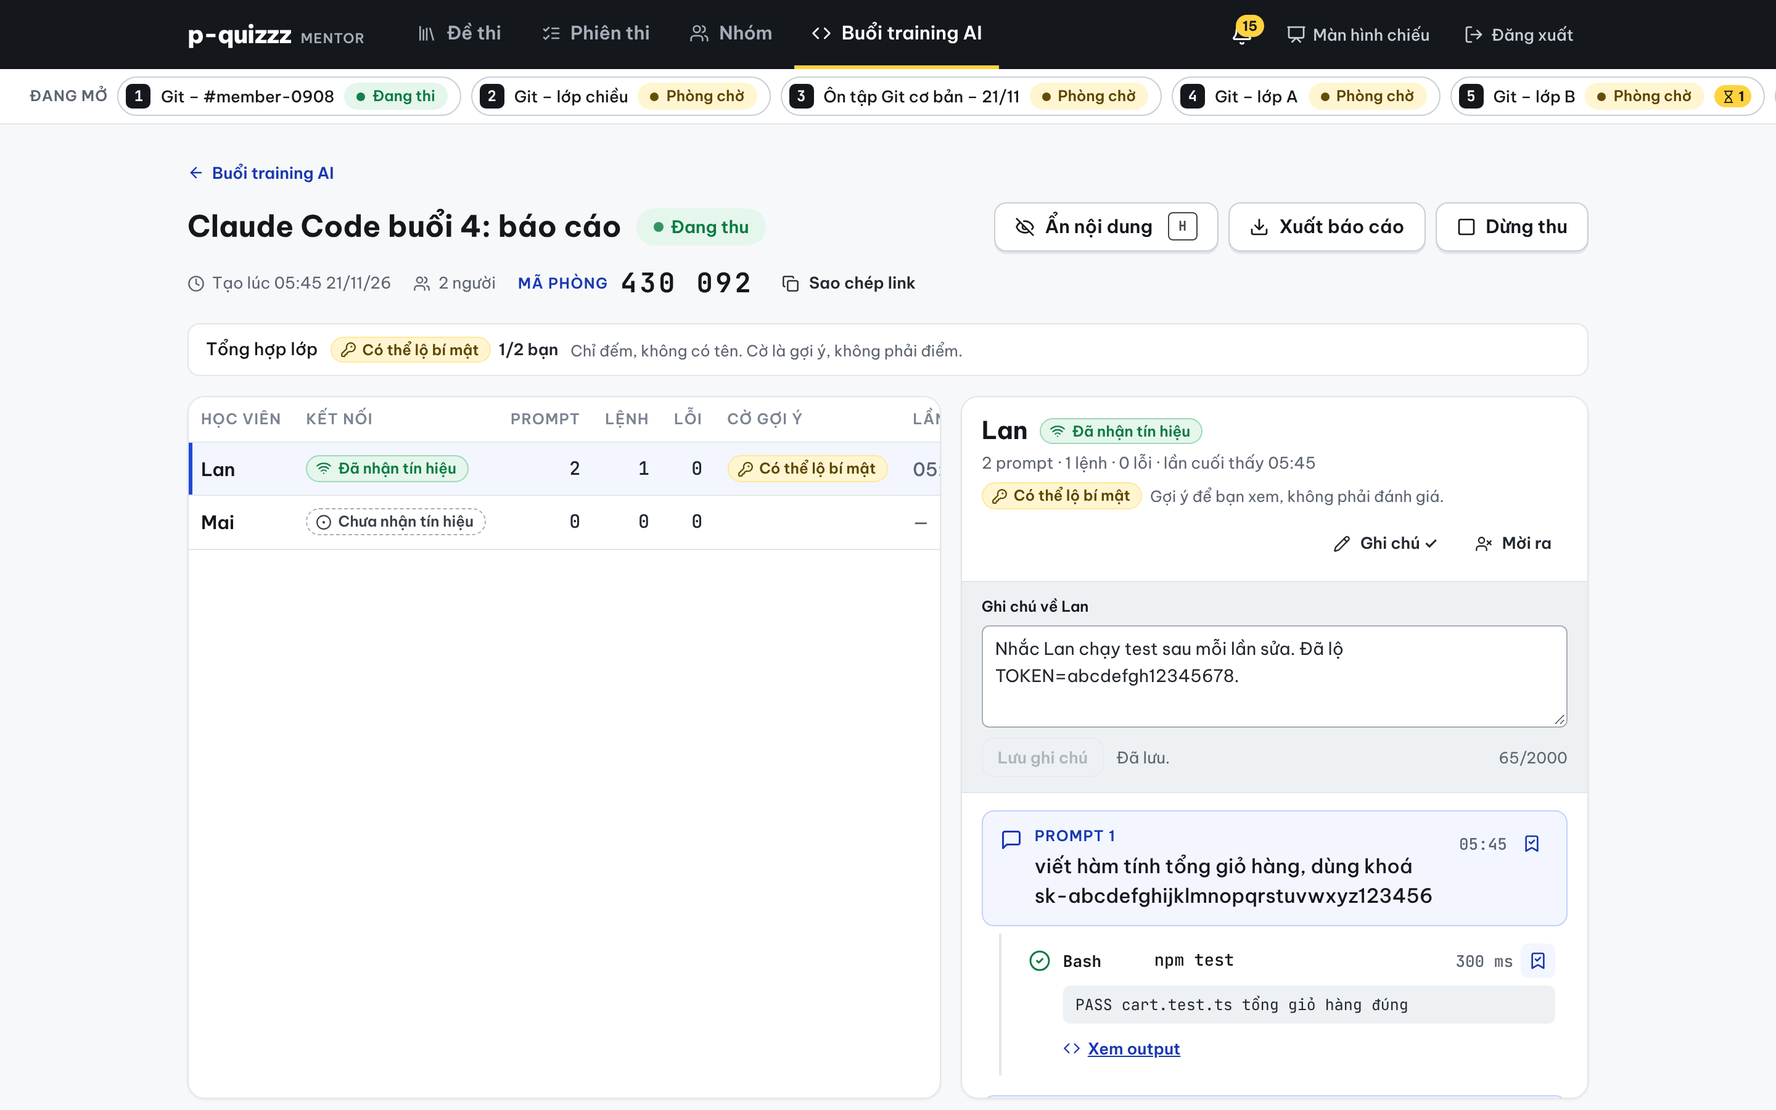
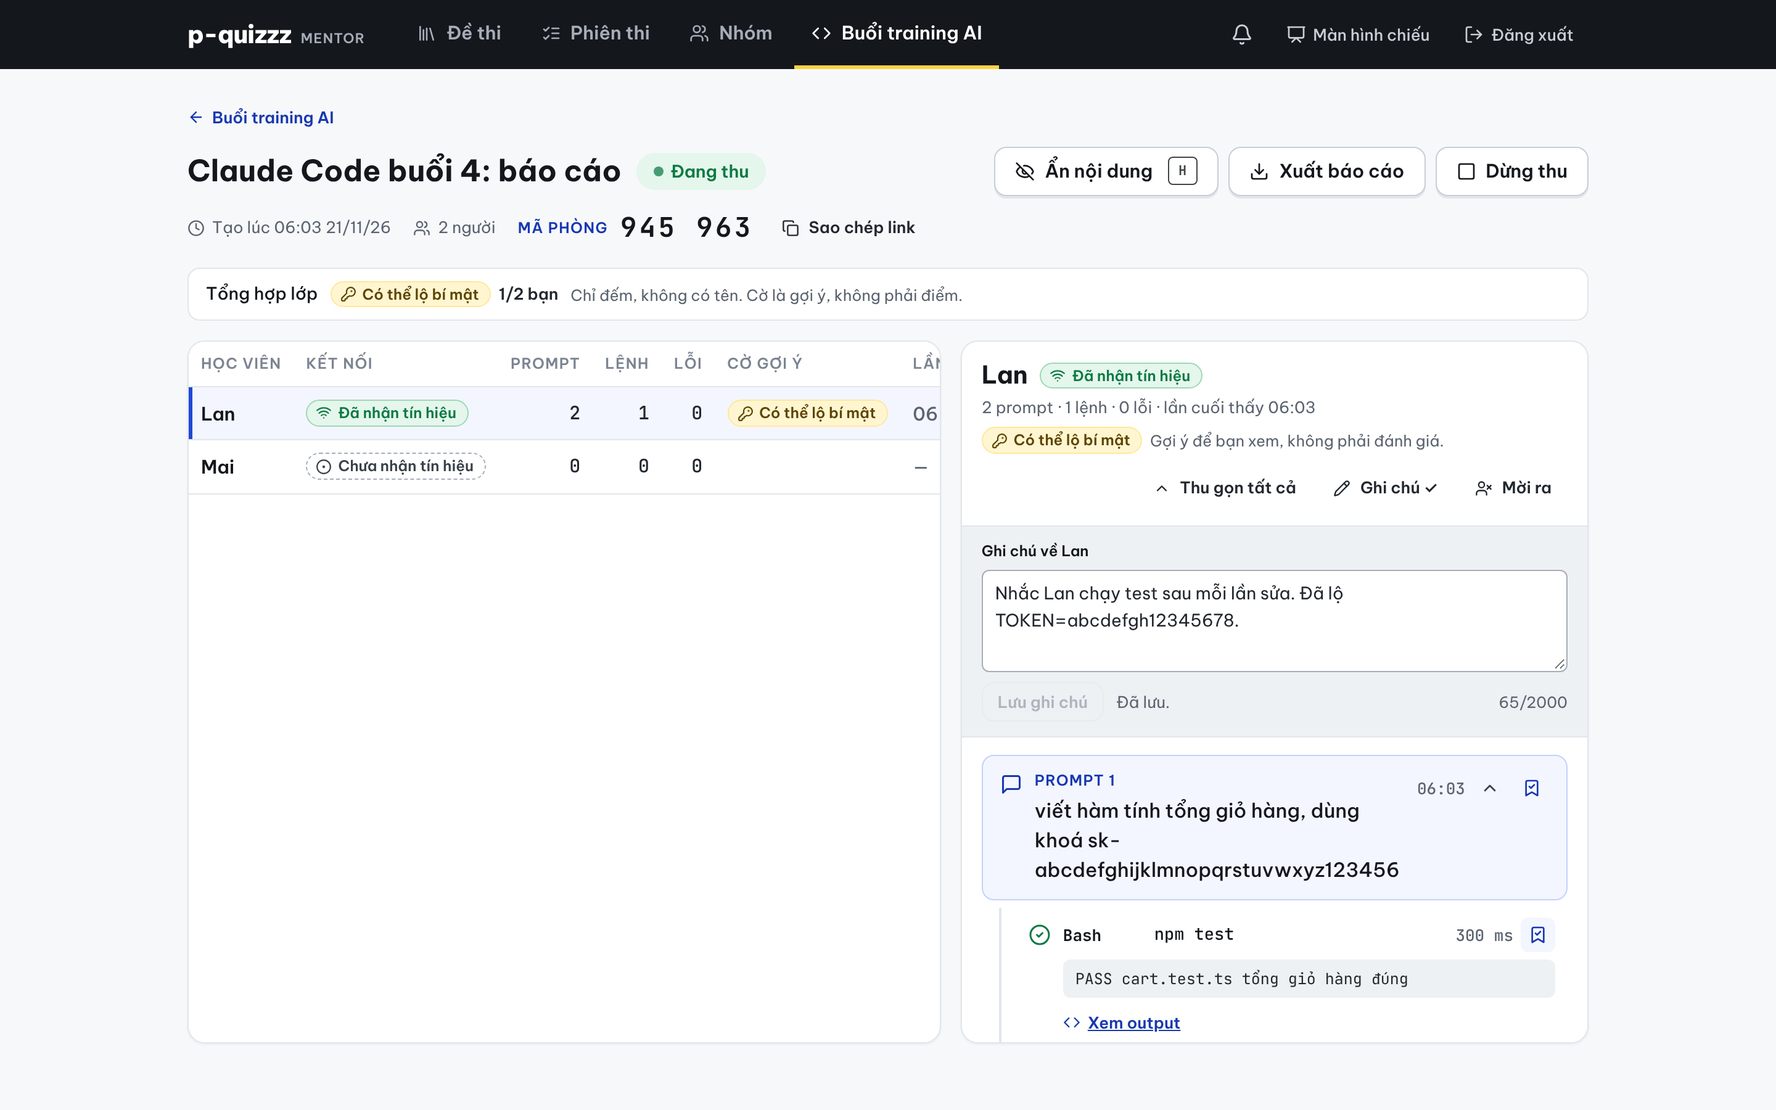
S40: fold and open the commands of a prompt, fold all / open all
Claude-Session: https://claude.ai/code/session_015cYECGBKWgKAFc6YDtaCEt

diff --git a/src/web/features/training-admin/ui/Timeline.tsx b/src/web/features/training-admin/ui/Timeline.tsx
@@ -12,7 +12,7 @@ import { evidenceOf, visibleFlags } from '../domain/flags.js';
 import { decisionText, isAutoMode, modeLabel, noteLines, noticeTitle, sessionTitle } from '../domain/row-text.js';
 import { isNearBottom } from '../domain/scroll.js';
 import { toolLabel } from '../domain/tool-label.js';
-import { buildTimeline, type TimelineItem, type TimelineTool } from '../domain/timeline.js';
+import { buildTimeline, turnKeys, type TimelineItem, type TimelineTool } from '../domain/timeline.js';
 import { ConnectionChip, FlagChip, StuckChip, ToolName, visuallyHidden } from './chips.js';
 import { MarkButton, NoticeRow, PanelButton, PermissionRow, SessionRow, rowBox } from './TimelineRows.js';
 import { NoteBox } from './NoteBox.js';
@@ -31,7 +31,20 @@ function SessionDivider({ index, startedAt }: { index: number; startedAt: number
   );
 }
 
-function PromptBlock({ event, number, focused, onMark }: { event: TrainingEventRow; number: number | null; focused: boolean; onMark: (id: number) => void }) {
+interface Fold { open: boolean; commands: number; failed: number; onToggle: () => void }
+
+/** Folds or opens the commands under a prompt. */
+function FoldButton({ fold }: { fold: Fold }) {
+  const label = fold.open ? 'Thu gọn các lệnh của prompt này' : 'Mở các lệnh của prompt này';
+  return (
+    <button type="button" aria-expanded={fold.open} title={label} aria-label={label} onClick={fold.onToggle}
+      style={{ display: 'inline-grid', placeItems: 'center', width: 28, height: 28, padding: 0, border: 0, borderRadius: 'var(--radius-sm)', cursor: 'pointer', flex: 'none', background: 'transparent', color: 'var(--ink-700)' }}>
+      <Icon name={fold.open ? 'chevron-up' : 'chevron-down'} size={16} />
+    </button>
+  );
+}
+
+function PromptBlock({ event, number, focused, onMark, fold }: { event: TrainingEventRow; number: number | null; focused: boolean; onMark: (id: number) => void; fold: Fold | null }) {
   const mode = modeLabel(event.permissionMode);
   return (
     <div id={`ev-${event.id}`} style={{ display: 'grid', gridTemplateColumns: '18px minmax(0, 1fr) auto', gap: 10, alignItems: 'start', padding: '12px 14px', borderRadius: 'var(--radius-md)', background: focused ? 'var(--sun-100)' : 'var(--brand-050)', border: `1px solid ${focused ? 'var(--sun-200)' : 'var(--brand-200)'}` }}>
@@ -42,9 +55,15 @@ function PromptBlock({ event, number, focused, onMark }: { event: TrainingEventR
           {mode && <span title="Chế độ quyền của Claude Code lúc bạn ấy gõ prompt" style={{ textTransform: 'none', letterSpacing: 0, padding: '1px 8px', borderRadius: 'var(--radius-pill)', font: 'var(--type-label)', fontSize: 12, background: isAutoMode(event.permissionMode) ? 'var(--sun-100)' : 'var(--paper)', color: isAutoMode(event.permissionMode) ? 'var(--sun-ink)' : 'var(--ink-700)', border: `1px solid ${isAutoMode(event.permissionMode) ? 'var(--sun-200)' : 'var(--ink-300)'}` }}>{mode}</span>}
         </span>
         <p style={{ margin: 0, font: '500 16px/1.5 var(--font-sans)', color: 'var(--text-title)', whiteSpace: 'pre-wrap', overflowWrap: 'anywhere' }}>{event.prompt}</p>
+        {fold && !fold.open && (
+          <button type="button" onClick={fold.onToggle} style={{ justifySelf: 'start', padding: 0, border: 0, background: 'none', cursor: 'pointer', font: 'var(--type-meta)', fontWeight: 600, color: 'var(--text-link)', textDecoration: 'underline' }}>
+            {fold.commands} lệnh đã thu gọn{fold.failed > 0 ? ` · ${fold.failed} lỗi` : ''}
+          </button>
+        )}
       </div>
       <span style={{ display: 'inline-flex', alignItems: 'center', gap: 6 }}>
         <span style={{ font: `500 13px/1 ${mono}`, color: 'var(--text-meta)' }}>{formatClock(event.receivedAt)}</span>
+        {fold && <FoldButton fold={fold} />}
         <MarkButton id={event.id} marked={event.marked} onToggle={onMark} />
       </span>
     </div>
@@ -112,6 +131,8 @@ export function Timeline({ member, timeline, panel, hidden, markError, ctrl, can
   const [noteOpen, setNoteOpen] = useState(false);
   const onMark = (id: number) => void ctrl.toggleMark(id);
   const items: TimelineItem[] = hidden ? [] : buildTimeline(timeline.events, { memberStuck: member.stuck });
+  const foldable = turnKeys(items);
+  const allFolded = foldable.length > 0 && foldable.every(k => timeline.collapsed.has(k));
   const flags = timeline.flags.filter(f => visibleFlags({ flags: [f.code], stuck: member.stuck }).length > 0).map(f => ({ code: f.code, ids: evidenceOf(f, timeline.events) })).filter(f => f.ids.length > 0);
 
   // Follow the end when the controller says so (first load, or new lines while the mentor is at the end).
@@ -151,6 +172,7 @@ export function Timeline({ member, timeline, panel, hidden, markError, ctrl, can
         </div>
         {canRemove && (
           <div style={{ marginLeft: 'auto', display: 'flex', gap: 4 }}>
+            {!hidden && foldable.length > 0 && <Button variant="ghost" size="sm" icon={allFolded ? 'chevron-down' : 'chevron-up'} onClick={() => ctrl.setAllCollapsed(!allFolded)}>{allFolded ? 'Mở tất cả' : 'Thu gọn tất cả'}</Button>}
             {!hidden && <Button variant="ghost" size="sm" icon="pencil" pressed={noteOpen} onClick={() => setNoteOpen(o => !o)}>{member.mentorNote ? 'Ghi chú ✓' : 'Ghi chú'}</Button>}
             <Button variant="ghost" size="sm" icon="user-x" onClick={onRemove}>Mời ra</Button>
           </div>
@@ -179,22 +201,33 @@ export function Timeline({ member, timeline, panel, hidden, markError, ctrl, can
           </div>
         ) : (
           <>
-            {items.map(item => item.kind === 'session' ? <SessionDivider key={item.key} index={item.index} startedAt={item.startedAt} /> : (
-              <div key={item.key} style={{ display: 'grid', gap: 6 }}>
-                {item.prompt && <PromptBlock event={item.prompt} number={item.promptNumber} focused={timeline.focusId === item.prompt.id} onMark={onMark} />}
-                {item.tools.length > 0 && (
-                  <ol style={{ listStyle: 'none', margin: '0 0 0 14px', padding: '0 0 0 12px', borderLeft: '2px solid var(--ink-200)', display: 'grid', gap: 2 }}>
-                    {item.tools.map(t => {
-                      const focused = timeline.focusId === t.event.id;
-                      return t.event.kind === 'permission' ? <PermissionRow key={t.event.id} event={t.event} panel={panel} focused={focused} onOpen={onOpen} onMark={onMark} />
-                        : t.event.kind === 'session' ? <SessionRow key={t.event.id} event={t.event} focused={focused} />
-                        : t.event.kind === 'notice' ? <NoticeRow key={t.event.id} event={t.event} focused={focused} />
-                        : <ToolRow key={t.event.id} tool={t} panel={panel} focused={focused} onOpen={onOpen} onMark={onMark} />;
-                    })}
-                  </ol>
-                )}
-              </div>
-            ))}
+            {items.map(item => {
+              if (item.kind === 'session') return <SessionDivider key={item.key} index={item.index} startedAt={item.startedAt} />;
+              const foldable = item.tools.length > 0;
+              const open = !foldable || !timeline.collapsed.has(item.key);
+              const fold: Fold | null = foldable ? { open, commands: item.tools.length, failed: item.tools.filter(t => t.event.kind === 'tool' && t.event.ok === false).length, onToggle: () => ctrl.toggleTurn(item.key) } : null;
+              return (
+                <div key={item.key} style={{ display: 'grid', gap: 6 }}>
+                  {item.prompt ? <PromptBlock event={item.prompt} number={item.promptNumber} focused={timeline.focusId === item.prompt.id} onMark={onMark} fold={fold} />
+                    : fold && (
+                      <div style={{ display: 'flex', alignItems: 'center', gap: 8, font: 'var(--type-meta)', color: 'var(--text-meta)' }}>
+                        <FoldButton fold={fold} />{open ? 'Lệnh chạy trước prompt đầu tiên' : `${fold.commands} lệnh đã thu gọn`}
+                      </div>
+                    )}
+                  {open && item.tools.length > 0 && (
+                    <ol style={{ listStyle: 'none', margin: '0 0 0 14px', padding: '0 0 0 12px', borderLeft: '2px solid var(--ink-200)', display: 'grid', gap: 2 }}>
+                      {item.tools.map(t => {
+                        const focused = timeline.focusId === t.event.id;
+                        return t.event.kind === 'permission' ? <PermissionRow key={t.event.id} event={t.event} panel={panel} focused={focused} onOpen={onOpen} onMark={onMark} />
+                          : t.event.kind === 'session' ? <SessionRow key={t.event.id} event={t.event} focused={focused} />
+                          : t.event.kind === 'notice' ? <NoticeRow key={t.event.id} event={t.event} focused={focused} />
+                          : <ToolRow key={t.event.id} tool={t} panel={panel} focused={focused} onOpen={onOpen} onMark={onMark} />;
+                      })}
+                    </ol>
+                  )}
+                </div>
+              );
+            })}
             {timeline.hasMore && (
               <div style={{ display: 'grid', justifyItems: 'center', gap: 8 }}>
                 {timeline.error && <ErrorMessage message={timeline.error} />}

diff --git a/src/web/features/training-admin/application/training-controller.ts b/src/web/features/training-admin/application/training-controller.ts
@@ -3,7 +3,7 @@ import { ApiError } from '../../../shared/api-client/http-client.js';
 import { announcementFor } from '../domain/announcements.js';
 import { evidenceOf } from '../domain/flags.js';
 import { reportFileName } from '../domain/report.js';
-import { stepEvent } from '../domain/timeline.js';
+import { buildTimeline, stepEvent, turnKeyOf, turnKeys } from '../domain/timeline.js';
 import type { TrainingAdminGateway } from './training-admin-gateway.js';
 
 /** A member's timeline as loaded so far (oldest first). */
@@ -26,6 +26,8 @@ export interface TimelineState {
   /** The event a flag chip last jumped to: drawn highlighted; `focusToken` changes on every jump so the page scrolls even to the same row. */
   focusId: number | null;
   focusToken: number;
+  /** Turns the mentor folded (keys from `buildTimeline`): their commands are hidden until opened again. New turns start open. */
+  collapsed: ReadonlySet<string>;
 }
 
 export type PanelKind = 'output' | 'change';
@@ -134,7 +136,7 @@ export class TrainingController {
     for (const l of [...this.listeners]) l();
   }
   private freshTimeline(memberId: number): TimelineState {
-    return { memberId, events: [], hasMore: false, phase: 'loading', loadingMore: false, error: '', newCount: 0, stickToken: 0, flags: [], focusId: null, focusToken: 0 };
+    return { memberId, events: [], hasMore: false, phase: 'loading', loadingMore: false, error: '', newCount: 0, stickToken: 0, flags: [], focusId: null, focusToken: 0, collapsed: new Set() };
   }
 
   /** Loads what the first render could not: the timeline of the member from the URL, the count of an ended training. Safe to call twice. */
@@ -313,7 +315,36 @@ export class TrainingController {
     const ids = evidenceOf(flag, tl.events);
     if (ids.length === 0) return;
     const at = tl.focusId === null ? -1 : ids.indexOf(tl.focusId);
-    this.set({ timeline: { ...tl, focusId: ids[(at + 1) % ids.length]!, focusToken: tl.focusToken + 1 } });
+    const id = ids[(at + 1) % ids.length]!;
+    this.set({ timeline: { ...tl, collapsed: this.without(tl, id), focusId: id, focusToken: tl.focusToken + 1 } });
+  }
+
+  // ── Folding the commands of a turn ────────────────────────────────────────────────────────────────
+
+  /** The folded set with the turn of `eventId` opened, so a jump never lands on a hidden row. */
+  private without(tl: TimelineState, eventId: number): ReadonlySet<string> {
+    const key = turnKeyOf(tl.events, eventId);
+    if (key === null || !tl.collapsed.has(key)) return tl.collapsed;
+    const next = new Set(tl.collapsed);
+    next.delete(key);
+    return next;
+  }
+
+  /** Folds or opens one turn. */
+  toggleTurn(key: string): void {
+    const tl = this.state.timeline;
+    if (!tl) return;
+    const next = new Set(tl.collapsed);
+    if (!next.delete(key)) next.add(key);
+    this.set({ timeline: { ...tl, collapsed: next } });
+  }
+
+  /** "Thu gọn tất cả" / "Mở tất cả". */
+  setAllCollapsed(collapsed: boolean): void {
+    const tl = this.state.timeline;
+    if (!tl) return;
+    const keys = collapsed ? turnKeys(buildTimeline(tl.events, { memberStuck: false })) : [];
+    this.set({ timeline: { ...tl, collapsed: new Set(keys) } });
   }
 
   /** The page reports whether the timeline is at its end (within 80px) after every scroll. */
@@ -365,6 +396,7 @@ export class TrainingController {
     const target = stepEvent(tl.events, p.eventId, direction);
     if (!target) return;
     const kind: PanelKind = p.kind === 'output' ? (target.hasOutput ? 'output' : 'change') : (target.hasChange ? 'change' : 'output');
+    this.set({ timeline: { ...tl, collapsed: this.without(tl, target.id) } });
     void this.openDetail(target.id, kind);
   }
 

diff --git a/src/web/features/training-admin/application/training-controller.test.ts b/src/web/features/training-admin/application/training-controller.test.ts
@@ -679,3 +679,57 @@ describe('TrainingController: marks, notes and the report (S40)', () => {
     expect(ctrl.getState().report).toBeNull();
   });
 });
+
+describe('TrainingController: folding the commands of a turn', () => {
+  const twoTurns = (): TrainingEventsPage => ({
+    events: [ev(1, { kind: 'prompt', prompt: 'một', toolName: undefined, toolTarget: undefined, ok: undefined }), ev(2), ev(3, { ok: false }),
+      ev(4, { kind: 'prompt', prompt: 'hai', toolName: undefined, toolTarget: undefined, ok: undefined }), ev(5)],
+    hasMore: false, flags: [{ code: 'repeated_failure', eventIds: [3] }],
+  });
+  const picked = async () => {
+    const m = make({ events: vi.fn(async () => twoTurns()) }, detail(), { initialMemberId: 1 });
+    m.ctrl.start();
+    await flush();
+    return m.ctrl;
+  };
+  const folded = (c: TrainingController) => [...c.getState().timeline!.collapsed].sort();
+
+  it('starts with every turn open; a turn folds and opens on its own', async () => {
+    const c = await picked();
+    expect(folded(c)).toEqual([]);
+    c.toggleTurn('t1');
+    expect(folded(c)).toEqual(['t1']);
+    c.toggleTurn('t1');
+    expect(folded(c)).toEqual([]);
+  });
+
+  it('"thu gọn tất cả" folds every turn that has commands, and "mở tất cả" opens them', async () => {
+    const c = await picked();
+    c.setAllCollapsed(true);
+    expect(folded(c)).toEqual(['t1', 't4']);
+    c.setAllCollapsed(false);
+    expect(folded(c)).toEqual([]);
+  });
+
+  it('a flag chip opens the folded turn it jumps into, and leaves the others folded', async () => {
+    const c = await picked();
+    c.setAllCollapsed(true);
+    c.jumpToFlag('repeated_failure');
+    expect(folded(c)).toEqual(['t4']);
+    expect(c.getState().timeline!.focusId).toBe(3);
+  });
+
+  it('keeps the folded turns when new events arrive', async () => {
+    const c = await picked();
+    c.toggleTurn('t1');
+    await c.refresh();
+    expect(folded(c)).toEqual(['t1']);
+  });
+
+  it('forgets the folds when another member is picked', async () => {
+    const c = await picked();
+    c.toggleTurn('t1');
+    c.select(2);
+    expect(folded(c)).toEqual([]);
+  });
+});

diff --git a/src/web/features/training-admin/domain/timeline.test.ts b/src/web/features/training-admin/domain/timeline.test.ts
@@ -1,6 +1,6 @@
 import { describe, expect, it } from 'vitest';
 import type { TrainingEventRow } from '../../../../shared/api/index.js';
-import { buildTimeline, stepEvent, type TimelineItem } from './timeline.js';
+import { buildTimeline, stepEvent, turnKeyOf, turnKeys, type TimelineItem } from './timeline.js';
 
 let id = 0;
 const prompt = (text: string, session = 's1'): TrainingEventRow => ({ id: ++id, kind: 'prompt', receivedAt: id * 1000, claudeSessionId: session, prompt: text, hasOutput: false, hasChange: false, marked: false });
@@ -106,5 +106,27 @@ describe('rows other than commands', () => {
     const p = row('permission', { toolName: 'Edit', toolTarget: 'x.ts', hasChange: true });
     const events = [a, row('notice', { subtype: 'idle' }), p];
     expect(stepEvent(events, a.id, 1)?.id).toBe(p.id);
+  });
+});
+
+describe('folding turns', () => {
+  it('turnKeys lists only turns that have something under the prompt', () => {
+    const a = prompt('một');
+    const t1 = tool('Bash', 'ls', true);
+    const b = prompt('hai, không lệnh');
+    const keys = turnKeys(buildTimeline([a, t1, b], { memberStuck: false }));
+    expect(keys).toEqual([`t${a.id}`]);
+  });
+
+  it('turnKeyOf finds the turn of a prompt or of a command, and null for an unknown event', () => {
+    const a = prompt('một');
+    const t1 = tool('Bash', 'ls', true);
+    const b = prompt('hai');
+    const t2 = tool('Bash', 'pwd', true);
+    const events = [a, t1, b, t2];
+    expect(turnKeyOf(events, t1.id)).toBe(`t${a.id}`);
+    expect(turnKeyOf(events, a.id)).toBe(`t${a.id}`);
+    expect(turnKeyOf(events, t2.id)).toBe(`t${b.id}`);
+    expect(turnKeyOf(events, 9999)).toBeNull();
   });
 });

diff --git a/e2e/training-report.spec.ts b/e2e/training-report.spec.ts
@@ -76,6 +76,19 @@ test('mark examples, write a note, preview and download the report, and the prom
   await expect(timeline.getByRole('button', { name: 'Bỏ đánh dấu ví dụ' })).toHaveCount(2);
   await expect(page.getByRole('button', { name: 'Ghi chú ✓' })).toBeVisible();
 
+  // ── Fold the commands of a prompt, open them again; fold all / open all ─────────────────────────────
+  const first = timeline.getByRole('button', { name: 'Thu gọn các lệnh của prompt này' }).first();
+  await first.click();
+  await expect(timeline.locator('li', { hasText: 'npm test' })).toHaveCount(0);
+  await expect(timeline.getByText('1 lệnh đã thu gọn')).toBeVisible();
+  await shot(page, 'M27-thu-gon-lenh');
+  await timeline.getByRole('button', { name: 'Mở các lệnh của prompt này' }).click();
+  await expect(timeline.locator('li', { hasText: 'npm test' })).toHaveCount(1);
+  await page.getByRole('button', { name: 'Thu gọn tất cả' }).click();
+  await expect(timeline.locator('li')).toHaveCount(0);
+  await page.getByRole('button', { name: 'Mở tất cả' }).click();
+  await expect(timeline.locator('li', { hasText: 'npm test' })).toHaveCount(1);
+
   // ── Preview, then the file ─────────────────────────────────────────────────────────────────────────
   await page.getByRole('button', { name: 'Xuất báo cáo' }).click();
   await expect(dialog.getByText('Đã đánh dấu 2 ví dụ · 1 ghi chú')).toBeVisible();

diff --git a/src/web/features/training-admin/domain/timeline.ts b/src/web/features/training-admin/domain/timeline.ts
@@ -82,3 +82,12 @@ export function stepEvent(events: readonly TrainingEventRow[], currentId: number
   if (at < 0) return null;
   return openable[at + step] ?? null;
 }
+
+/** The turns (a prompt and what ran under it) that have something to fold, as their keys. */
+export const turnKeys = (items: readonly TimelineItem[]): string[] => items.flatMap(i => (i.kind === 'turn' && i.tools.length > 0 ? [i.key] : []));
+
+/** The key of the turn an event sits in (null if it is not in any). */
+export function turnKeyOf(events: readonly TrainingEventRow[], eventId: number): string | null {
+  const hit = buildTimeline(events, { memberStuck: false }).find(i => i.kind === 'turn' && (i.prompt?.id === eventId || i.tools.some(t => t.event.id === eventId)));
+  return hit?.key ?? null;
+}

diff --git a/src/web/styles/icons.css b/src/web/styles/icons.css
@@ -72,3 +72,4 @@
 .pq-icon-sparkles{-webkit-mask-image:url("../assets/icons/sparkles.svg");mask-image:url("../assets/icons/sparkles.svg")}
 .pq-icon-bookmark-check{-webkit-mask-image:url("../assets/icons/bookmark-check.svg");mask-image:url("../assets/icons/bookmark-check.svg")}
 .pq-icon-download{-webkit-mask-image:url("../assets/icons/download.svg");mask-image:url("../assets/icons/download.svg")}
+.pq-icon-chevron-up{-webkit-mask-image:url("../assets/icons/chevron-up.svg");mask-image:url("../assets/icons/chevron-up.svg")}

diff --git a/docs/stories/S40-training-report.md b/docs/stories/S40-training-report.md
@@ -38,6 +38,7 @@ Contract: `architecture.md` §11.9 (Báo cáo).
 - Sửa kèm theo: mẫu `password|token|...=` trước đây bỏ sót `DB_PASSWORD=...` (dấu `_` bị coi là chữ); cờ "Có thể lộ bí mật" cũng được lợi.
 - `ConfirmDialog` giờ có `aria-labelledby`. Hai biểu tượng mới: `bookmark-check`, `download`.
 - Khi bật "Ẩn nội dung", hộp thoại xuất không hiện bản xem trước (có tên và prompt), ghi chú cũng ẩn; tải file vẫn được.
+- Thu gọn lệnh (PO thêm sau khi xem): mỗi prompt có nút thu gọn/mở các lệnh bên dưới, kèm "N lệnh đã thu gọn · M lỗi"; nút "Thu gọn tất cả" / "Mở tất cả" ở header. Chỉ ở phía web, tạm thời (không lưu), mỗi member một trạng thái; chip cờ và J/K tự mở lượt chứa dòng đích.
 - Ảnh chụp: `docs/design/S40-assets/`. Hộp thoại xuất và khối ghi chú chưa qua designer.
 
 ## Chưa làm (để sau)
